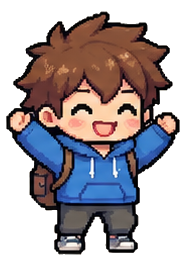
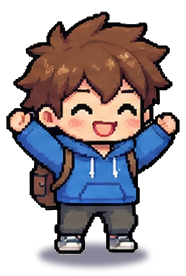
주인공·동행 유닛 그림에 발밑 그림자
Claude-Session: https://claude.ai/code/session_01GF3JgC4g3zMtgpDYtqHh4q

diff --git a/tools/art/cut_sprites.py b/tools/art/cut_sprites.py
@@ -8,7 +8,7 @@
 4) 같은 캐릭터의 그림은 한 크기 캔버스에 발끝(아래 가운데)을 맞춰 넣는다(움직일 때 흔들리지 않게)
 
 결과(assets/art, src/ui/art.gd가 읽는다):
-  hero/<m|f>_<동작>_<n>.png    필드 주인공(동작: idle, walk, joy, action, think)
+  hero/<m|f>_<동작>_<n>.png    필드 주인공(동작: idle, walk, joy, action, think). 발밑 그림자를 함께 그린다(그림 아래쪽 여백)
   pal/<NN>_<동작>_<n>.png      필드 동행 유닛
   unit/uNN.png                 전투·도감 유닛 그림(정사각형)
   face/<인물>_normal.png       대화 얼굴(머리와 어깨)
@@ -18,7 +18,7 @@
 import os
 
 import numpy as np
-from PIL import Image
+from PIL import Image, ImageDraw, ImageFilter
 from scipy import ndimage
 
 ROOT = os.path.dirname(os.path.dirname(os.path.dirname(os.path.abspath(__file__))))
@@ -40,6 +40,7 @@ FRAMES = {
 FACES = {"hero/m": "hero_m", "hero/f": "hero_f", "pal/01": "ttukttak", "pal/04": "cheokcheok", "pal/05": "jojal"}
 UNITS = {"pal/01": "u01", "pal/04": "u04", "pal/05": "u05"}
 PAD = 6
+SHADOW = (30, 26, 60, 135)  ## 발밑 그림자 색(남색, 반투명). 사용자 의견: 캐릭터·동행 유닛에 그림자
 
 
 def sprites(path):
@@ -88,15 +89,28 @@ def main():
             used = sorted({k for v in anims.values() for k in v})
             w = max(sp[k].width for k in used) + PAD * 2
             h = max(sp[k].height for k in used) + PAD * 2
+            # 그림자: 가만히 그림 폭의 6할 타원, 발끝 높이에. 모든 동작에 같은 크기(걸을 때 그림자가 흔들리지 않게)
+            sw = int(sp[anims["idle"][0]].width * 0.68)
+            sh = max(8, int(sw * 0.22))
+            sh_pad = sh // 2 + 4
 
-            def canvas(k):
-                c = Image.new("RGBA", (w, h), (0, 0, 0, 0))
+            def canvas(k, shadow=False):
+                hh = h + (sh_pad if shadow else 0)
+                c = Image.new("RGBA", (w, hh), (0, 0, 0, 0))
                 s = sp[k]
-                c.alpha_composite(s, ((w - s.width) // 2, h - PAD - s.height))
+                foot = h - PAD
+                if shadow:
+                    m = Image.new("L", (w * 2, hh * 2), 0)
+                    ImageDraw.Draw(m).ellipse([w - sw, (foot - sh // 2) * 2, w + sw, (foot + sh // 2) * 2], fill=255)
+                    m = m.filter(ImageFilter.GaussianBlur(6)).resize((w, hh), Image.LANCZOS)
+                    sl = Image.new("RGBA", (w, hh), SHADOW[:3] + (0,))
+                    sl.putalpha(m.point(lambda v: v * SHADOW[3] // 255))
+                    c.alpha_composite(sl)
+                c.alpha_composite(s, ((w - s.width) // 2, foot - s.height))
                 return c
             for anim, ks in anims.items():
                 for j, k in enumerate(ks):
-                    save(canvas(k), "%s_%s_%d" % (cid, anim, j + 1))
+                    save(canvas(k, shadow=True), "%s_%s_%d" % (cid, anim, j + 1))
                     n += 1
             idle = canvas(anims["idle"][0])
             side = max(w, h)
